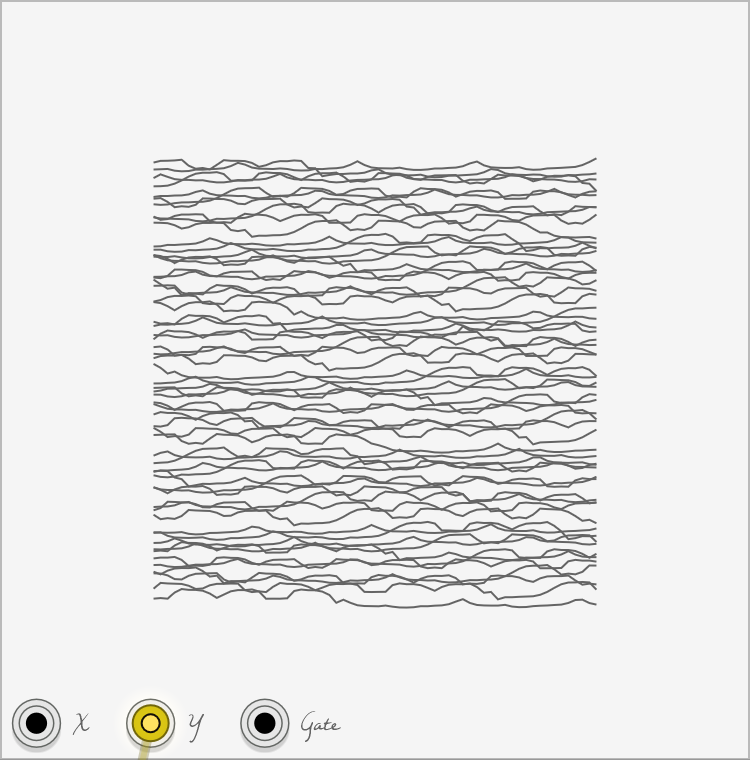
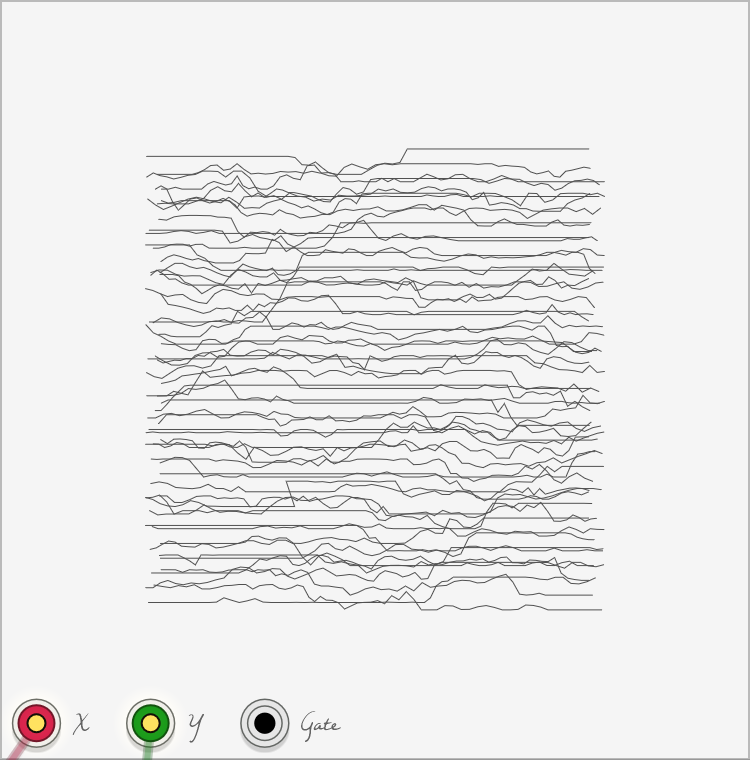
Reduce line width, update screenshots, add descriptions of screenshots to README

Changed region(s): [[0.184, 0.1816, 0.7973, 0.8171], [0.0, 0.9079, 0.092, 1.0], [0.1533, 0.9079, 0.2453, 1.0]]

diff --git a/NotStraightLines.cpp b/NotStraightLines.cpp
@@ -5,7 +5,7 @@ using namespace rack;
 Plugin *plugin;
 
 static const int NUM_LINES = 60;
-static const int NUM_POINTS = 64;
+static const int NUM_POINTS = 128;
 
 struct NotStraightLines : Module {
 	enum ParamIds {
@@ -70,8 +70,9 @@ struct ScopeWidget : TransparentWidget {
 					nvgLineTo(vg, p.x, p.y);
 			}
 		}
-		nvgStrokeWidth(vg, 1.0);
-		nvgStrokeColor(vg, nvgRGBA(100, 100, 100, 0xff));
+		nvgLineCap(vg, NVG_ROUND);
+		nvgStrokeWidth(vg, 0.5);
+		nvgStrokeColor(vg, nvgRGBA(80, 80, 80, 0xff));
 		nvgStroke(vg);
 
 		Widget::draw(vg);

diff --git a/README.md b/README.md
@@ -6,6 +6,12 @@ https://www.sollewittprints.org/lewitt-raisonne-2003-02
 
 ![](screenshot1.png)
 
+Complex waveform produced by [Vult Noxious](https://modlfo.github.io/VultModules/noxious/).
+
 ![](screenshot2.png)
 
+Sawtooth wave from [Fundamental](https://vcvrack.com/Fundamental.html) VCO-1.
+
 ![](screenshot3.png)
+
+Transient produced by [Audible Instruments](https://vcvrack.com/AudibleInstruments.html) Modal Synthesizer.
